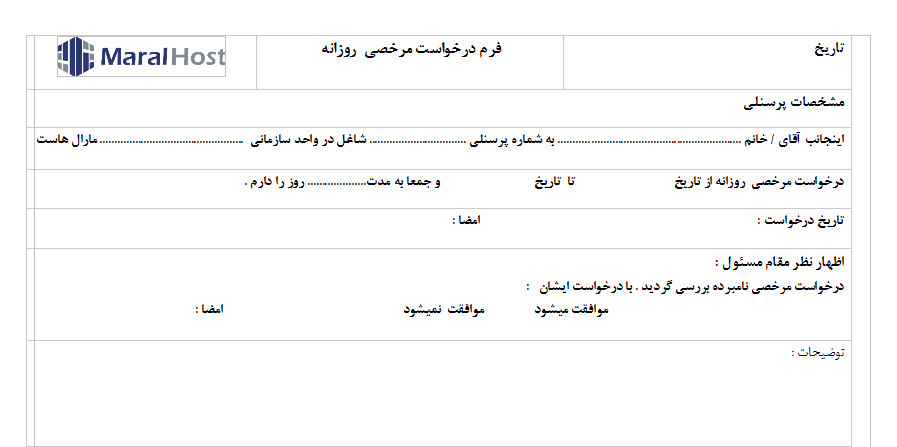
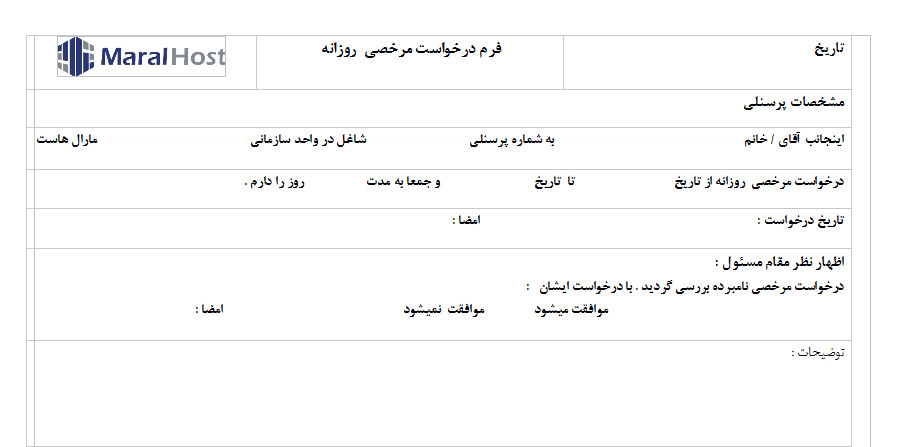
Update Form images
In this update, the points have been removed from the leave form

diff --git a/mor/index.php b/mor/index.php
@@ -48,33 +48,33 @@ if ($mor_Radio == 'saat') {
     $base_w = abs($helper[4] - $helper[0]);
     // $base_height = abs($base_coords[5] - $base_coords[1]);
     // $base_descent = abs($base_coords[1]);
-    @imagettftext($im, 12, -1,738-$base_w, 136, $black, $font, $name);
+    @imagettftext($im, 12, -1,735-$base_w, 142, $black, $font, $name);
 
 //mor-vahed
     $helper = imageTTFBbox(12,0,$font,$vahed);
     $base_w = abs($helper[4] - $helper[0]);
-    @imagettftext($im, 12, -1,224-$base_w, 136, $black, $font, $vahed);
+    @imagettftext($im, 12, -1,224-$base_w, 142, $black, $font, $vahed);
     
 //mor_day
     $mor_day_helper = imageTTFBbox(12,0,$font,$mor_day);
     $base_loc_mor_day = abs($mor_day_helper[4] - $mor_day_helper[0]);
     // $base_height = abs($base_coords[5] - $base_coords[1]);
     // $base_descent = abs($base_coords[1]);
-    @imagettftext($im, 12, -1,289-$base_loc_mor_day, 177, $black, $font, $mor_day);
+    @imagettftext($im, 12, -1,289-$base_loc_mor_day, 184, $black, $font, $mor_day);
     
     //mor_date
     $mor_day_helper = imageTTFBbox(12,0,$font,$mor_date);
     $base_loc_mor_day = abs($mor_day_helper[4] - $mor_day_helper[0]);
     // $base_height = abs($base_coords[5] - $base_coords[1]);
     // $base_descent = abs($base_coords[1]);
-    @imagettftext($im, 12, -1,183-$base_loc_mor_day, 177, $black, $font, $mor_date);
+    @imagettftext($im, 12, -1,183-$base_loc_mor_day, 184, $black, $font, $mor_date);
 
 //mor_date
     $mor_day_helper = imageTTFBbox(12,0,$font,$mor_day);
     $base_loc_mor_day = abs($mor_day_helper[4] - $mor_day_helper[0]);
     // $base_height = abs($base_coords[5] - $base_coords[1]);
     // $base_descent = abs($base_coords[1]);
-    @imagettftext($im, 12, -1,289-$base_loc_mor_day, 177, $black, $font, $mor_day);
+    @imagettftext($im, 12, -1,289-$base_loc_mor_day, 184, $black, $font, $mor_day);
     
 //now Date
     $helper = imageTTFBbox(12,0,$font,$nowdate);
@@ -85,16 +85,16 @@ if ($mor_Radio == 'saat') {
 //start Time
     $helper = imageTTFBbox(12,0,$font,$start_time);
     $base_w = abs($helper[4] - $helper[0]);
-    @imagettftext($im, 12, 0, 656-$base_w, 179, $black, $font, $start_time);
+    @imagettftext($im, 12, 0, 656-$base_w, 184, $black, $font, $start_time);
 //end Time
     $helper = imageTTFBbox(12,0,$font,$end_time);
     $base_w = abs($helper[4] - $helper[0]);
-    @imagettftext($im, 12, 0, 540-$base_w, 179, $black, $font, $end_time);
+    @imagettftext($im, 12, 0, 540-$base_w, 184, $black, $font, $end_time);
     
     //mor_num
     $helper = imageTTFBbox(12,0,$font,$mor_num);
     $base_w = abs($helper[4] - $helper[0]);
-    @imagettftext($im, 12, 0, 402-$base_w, 179, $black, $font, $mor_num);
+    @imagettftext($im, 12, 0, 402-$base_w, 184, $black, $font, $mor_num);
     
 } else { 
     
@@ -105,18 +105,18 @@ if ($mor_Radio == 'saat') {
     $base_w = abs($helper[4] - $helper[0]);
     // $base_height = abs($base_coords[5] - $base_coords[1]);
     // $base_descent = abs($base_coords[1]);
-    @imagettftext($im, 12, -1,738-$base_w, 136, $black, $font, $name);
+    @imagettftext($im, 12, -1,735-$base_w, 142, $black, $font, $name);
 
 //mor-vahed
     $helper = imageTTFBbox(12,0,$font,$vahed);
     $base_w = abs($helper[4] - $helper[0]);
-    @imagettftext($im, 12, -1,227-$base_w, 136, $black, $font, $vahed);
+    @imagettftext($im, 12, -1,227-$base_w, 142, $black, $font, $vahed);
 
 //now Date
     $helper = imageTTFBbox(12,0,$font,$nowdate);
     $base_w = abs($helper[4] - $helper[0]);
     @imagettftext($im, 12, 0, 792-$base_w, 51, $black, $font, $nowdate);
-    @imagettftext($im, 12, 0, 744-$base_w, 220, $black, $font, $nowdate);
+    @imagettftext($im, 12, 0, 744-$base_w, 222, $black, $font, $nowdate);
     
     //start Time
     $helper = imageTTFBbox(12,0,$font,$start_time);
@@ -130,7 +130,7 @@ if ($mor_Radio == 'saat') {
 //mor_num
     $helper = imageTTFBbox(12,0,$font,$mor_num);
     $base_w = abs($helper[4] - $helper[0]);
-    @imagettftext($im, 12, 0, 351-$base_w, 180, $black, $font, $mor_num);
+    @imagettftext($im, 12, 0, 351-$base_w, 184, $black, $font, $mor_num);
 } 
     // Set the content-type
 header('Content-type: image/jpeg');
